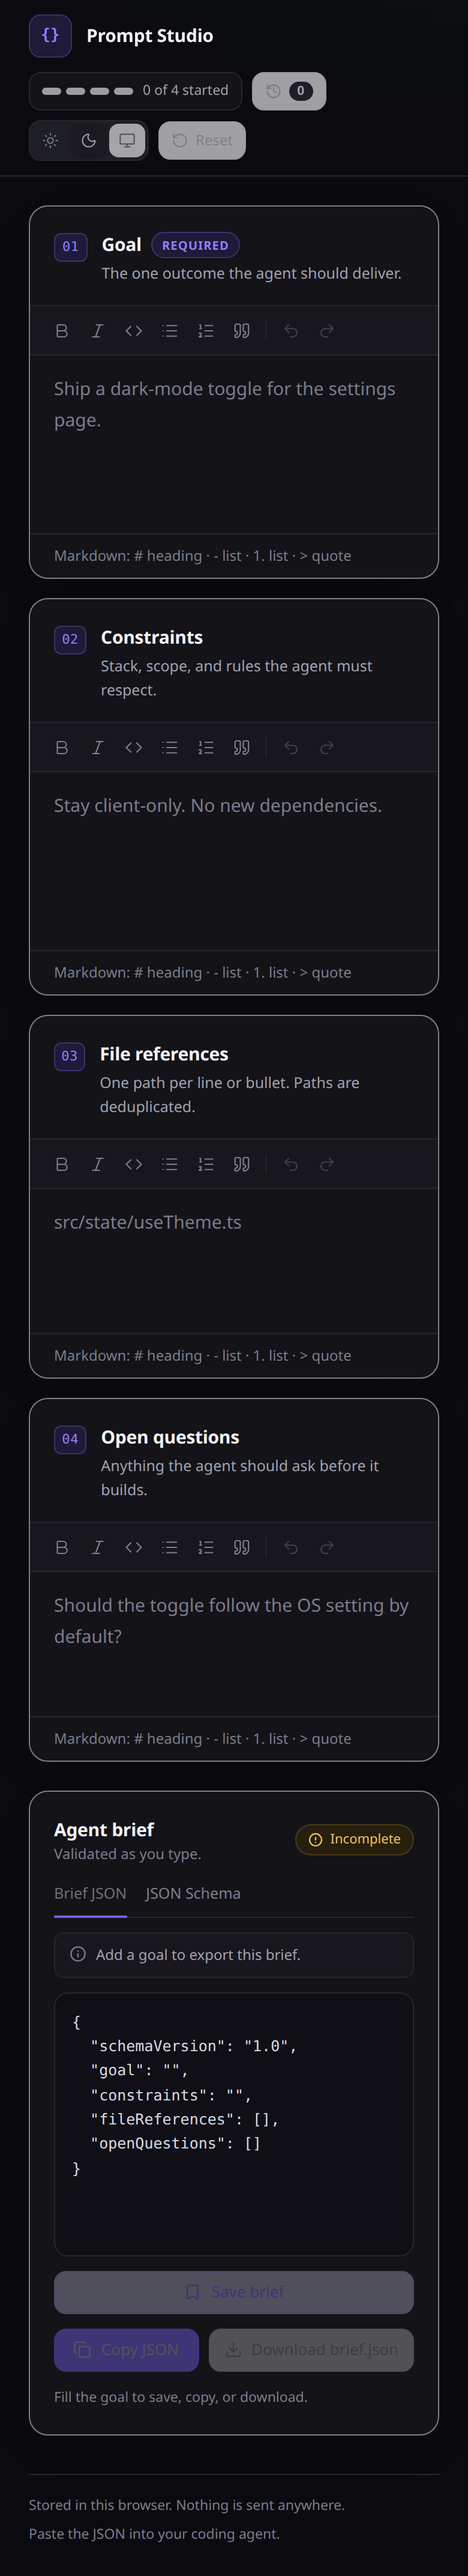
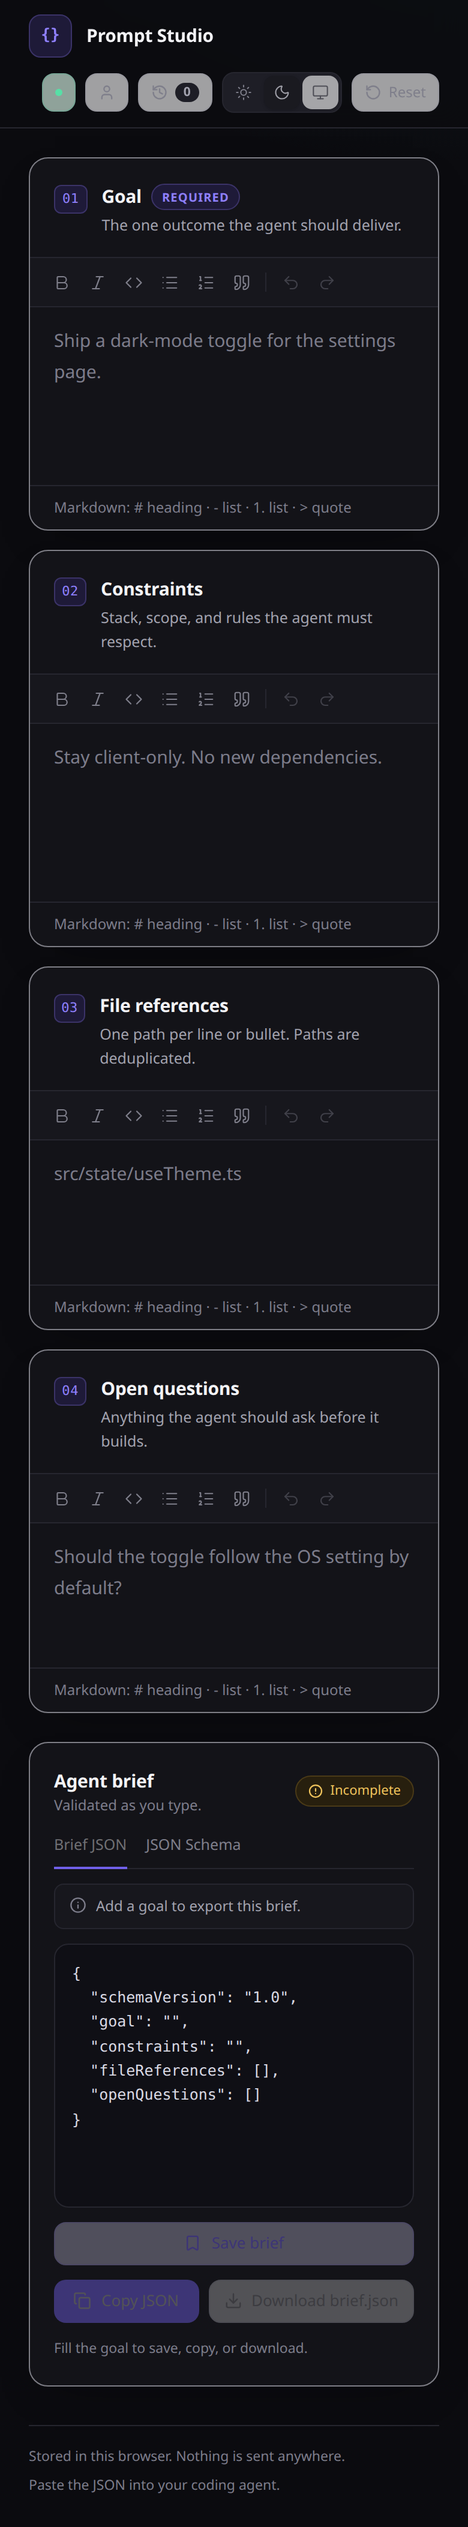
docs: document accounts, Mongo, and Render deployment

diff --git a/README.md b/README.md
@@ -2,37 +2,100 @@
 
 Four fields in. One agent-ready brief out.
 
-Write a goal, constraints, file references, and open questions. Prompt Studio turns them into a validated JSON brief you can paste into a coding agent.
+Write a goal, constraints, file references, and open questions. Prompt Studio turns them into a validated JSON brief you can paste into a coding agent. Saved briefs live in your account, backed by MongoDB Atlas, or stay in the browser when you are signed out.
 
 ![The editor in light mode](docs/screenshots/desktop-light.png)
 
 ![The editor in dark mode](docs/screenshots/desktop-dark-filled.png)
 
-![Saved briefs in the history drawer](docs/screenshots/desktop-light-history.png)
+![The create account dialog](docs/screenshots/desktop-auth.png)
 
 ## What it does
 
 - Four rich-text fields share one editor: bold, italic, inline code, bullet and numbered lists, quotes, headings, undo, and redo. Typing `- `, `1. `, `# `, or `> ` starts the matching block.
 - The right panel updates on every keystroke with the JSON brief. Copy it or download `brief.json`.
 - The JSON Schema tab shows the draft 2020-12 schema the payload is validated against. Zod generates both from one declaration.
+- Create an account to save briefs to MongoDB Atlas. History is scoped to the account and follows you to any device.
+- Signed-out use still works. Drafts and guest history stay in this browser.
+- A server status pill shows `Server online`, `Waking server`, `Database offline`, or `Server offline`. Signed-in saves make one immediate attempt plus four retries when Render's free instance is waking.
 - Light, dark, and system themes. The choice survives a reload.
-- Save the current brief to history. The drawer lists saved snapshots with a title, relative time, and field count. Load one back into the editor, delete it, or clear all. History keeps the newest 50 entries in this browser.
-- Drafts autosave to localStorage under `prompt-studio.draft.v1`. Nothing leaves the browser.
 
 ## Run it
 
 ```sh
 npm install
+cp .env.example .env
+# set MONGODB_URI in .env to your Atlas connection string
 npm run dev
 ```
 
-Open http://localhost:5173.
+`npm run dev` starts the Vite app on http://localhost:5173 and the API on http://localhost:8787. Vite proxies `/api` so cookies stay same-origin.
+
+To run the production build locally:
 
 ```sh
-npm test        # pure brief pipeline
+npm run build
+npm start
+```
+
+Open http://localhost:8787. Express serves the built SPA and the API from one origin.
+
+```sh
+npm test          # 52 unit tests
 npm run typecheck
+npm run lint
 npm run build
 ```
+
+## Accounts and storage
+
+| Where | What | Key |
+| --- | --- | --- |
+| MongoDB Atlas | Users, sessions, saved briefs | `prompt_studio` database |
+| Browser localStorage | Draft, guest history, theme | `prompt-studio.*` keys |
+
+Signed in, Save writes `POST /api/history` and the drawer reads the account. Signed out, Save and the drawer use localStorage. Signing in does not upload existing guest entries.
+
+Passwords use Node's scrypt with a random salt. Sessions are random tokens stored as SHA-256 hashes in Mongo, sent in an httpOnly `ps_session` cookie for 30 days. Logout deletes the session. Every history query filters by `userId`.
+
+### API
+
+| Method | Path | Auth | Result |
+| --- | --- | --- | --- |
+| GET | `/api/ping` | no | Liveness for Render |
+| GET | `/api/health` | no | Server uptime and Mongo state |
+| POST | `/api/auth/signup` | no | Create an account and session |
+| POST | `/api/auth/login` | no | Sign in |
+| POST | `/api/auth/logout` | no | Revoke the session |
+| GET | `/api/auth/me` | no | Current user or `null` |
+| GET | `/api/history` | yes | Newest 50 saved briefs |
+| POST | `/api/history` | yes | Save one, or report a duplicate |
+| DELETE | `/api/history/:id` | yes | Delete one owned brief |
+| DELETE | `/api/history` | yes | Clear the account's history |
+
+Validation, auth, and rate-limit failures return `{ "error", "code" }`.
+
+## Cold start
+
+Render's free web service sleeps after idle time. The first request can take 30 to 60 seconds while the instance boots. The app handles that in three places.
+
+1. The status pill probes `/api/health` on load and shows `Waking server` while the probe hangs or fails once.
+2. A signed-in save retries network errors and 502, 503, and 504 responses. It makes one immediate attempt, then retries at 0, 1.5, 4, and 8 seconds. Each attempt aborts after 65 seconds, and the toast says `Server is waking up. Retrying save.`
+3. The drawer's list request uses the same retry policy, so history appears once the instance is awake.
+
+The server starts its HTTP listener before Mongo connects. Routes that need the database return 503 until it is ready, and `/api/health` reports `connecting` or `error`. The server retries the Atlas connection every 5 seconds.
+
+## Deploy to Render
+
+`render.yaml` defines one free web service.
+
+1. Push the repo to GitHub.
+2. In Render, create a Blueprint from the repo.
+3. Set `MONGODB_URI` to the Atlas connection string with the real password, and `APP_ORIGIN` to the Render URL, for example `https://prompt-studio.onrender.com`.
+4. In Atlas, allow Render to connect. The simple option is a network access rule for `0.0.0.0/0`. The tighter option is the Render egress IPs for your region.
+5. Deploy. Render builds with `npm ci --include=dev && npm run build` and starts `node dist-server/server/index.js`.
+
+The build compiles the server to CommonJS in `dist-server`, writes a matching `package.json`, and bundles the SPA into `dist`. Express serves both.
 
 ## The payload
 
@@ -74,29 +137,31 @@ FieldEditor.onUpdate [1] ← one TipTap instance per field
 │   └── replace(docs) on history load [1a2] ← remounts editors
 ├── OutputPanel [1b]
 │   ├── Save brief [1b1] → useHistory.save [1b1a]
-│   │   ├── addEntry + newest duplicate check [1b1a1]
-│   │   ├── localStorage history write first [1b1a2]
-│   │   └── setEntries after a successful write [1b1a3]
+│   │   ├── signed out → localStorage [1b1a1]
+│   │   └── signed in → POST /api/history with wake retry [1b1a2]
 │   ├── Copy JSON [1b2] ← disabled until valid
-│   ├── Download brief.json [1b3]
-│   └── JSON Schema tab [1b4] ← z.toJSONSchema(BriefSchema)
-└── HistoryDrawer [1c]
-    ├── Load → replace(docs) + close [1c1]
-    └── Delete or clear → persist then setEntries [1c2]
+│   └── Download brief.json [1b3]
+├── HistoryDrawer [1c]
+│   ├── account source → GET /api/history [1c1]
+│   └── browser source → localStorage [1c2]
+└── useAuth [1d] ← GET /api/auth/me, signup, login, logout
 ```
 
-The same `Brief` type comes from `BriefSchema`, so the runtime validator and the displayed schema cannot drift. `src/brief/compile.ts` is the only place that assembles the payload. History stores the four ProseMirror documents, so loading a saved brief rebuilds the JSON from the same compiler instead of from a second stored format.
+`shared/brief-docs.ts` validates documents and derives titles for both the browser and the server. `shared/api.ts` holds the wire types.
 
 ## Project layout
 
 ```text
+server/             Express app, Mongo access, auth, history, tests
+shared/             document validation, title derivation, wire types
 src/
-├── brief/          contract, docs model, registry, markdown serializer, compiler, tests
-├── history/        pure entries, titles, relative time, tests
+├── brief/          contract, registry, markdown serializer, compiler, tests
+├── history/        pure entry model, relative time, tests
 ├── editor/         TipTap field, toolbar, action table
-├── state/          draft, history, and theme hooks
-├── ui/             form cards, output panel, history drawer, theme toggle, toast
-├── App.tsx         header, grid, reset, completion meter
+├── state/          auth, server status, history, draft, and theme hooks
+├── lib/api.ts      fetch wrapper, typed routes, wake retry
+├── ui/             form, output, history, auth, account, status, theme
+├── App.tsx         header, grid, dialogs, toasts
 └── styles.css      design tokens and editor typography
 ```
 
@@ -104,18 +169,18 @@ src/
 
 Colors and spacing live in `src/styles.css` as CSS variables mapped into Tailwind v4 through `@theme inline`. The `dark` class on `<html>` swaps the token set. An inline script in `index.html` applies the stored theme before first paint.
 
-The layout is a two-column workspace at 1024 px and wider, and a single column below that. Every control is a real button or a labelled editor, the toolbar exposes `aria-pressed`, the output tabs follow the WAI-ARIA tabs pattern, and validation messages sit in live regions.
+The layout is a two-column workspace at 1024 px and wider, and a single column below that. Every control is a real button or a labelled editor, the toolbar exposes `aria-pressed`, the output tabs follow the WAI-ARIA tabs pattern, and the auth dialog and history drawer share one focus-trap hook.
 
-`src/brief/` and `src/history/` are pure. They import neither React nor the DOM, so both can move into a workspace package without edits. `src/state/` holds the React adapters, and the draft and history keys have separate writers.
+`src/brief/`, `src/history/`, and `shared/` import neither React nor the DOM, so they can move into a workspace package without edits.
 
 ## Stitch MCP
 
-The app was built without Stitch because no Stitch MCP server or API key was configured in this environment. `docs/stitch.md` has the setup commands, the OpenCode config, and the prompt to regenerate this screen in Stitch. The four-field layout, tokens, and components are isolated, so a Stitch design can replace the visual layer without touching the brief pipeline.
+The original visual layer was built without Stitch because no Stitch MCP server or API key was configured in this environment. `docs/stitch.md` has the setup commands, the OpenCode config, and the prompt to regenerate the screen. The account dialog adds one more surface to that prompt.
 
 ## Verification
 
-`npm test` covers the serializer, item flattening, path normalization, schema shape, parse failures, issue mapping, and the history model. `scripts/verify-ui.cjs` drives the real app in Chrome through 38 checks: typing, formatting, deduplication, save, duplicate save, load, delete, copy, download, schema tab, reload persistence, reset, and dark and light layouts. Start the dev server first, then run:
-
-```sh
-npm run verify:ui
-```
+- `npm test` runs 52 unit tests across the serializer, schema, history model, password hashing, rate limiting, origin checks, and document validation.
+- `npm run verify:api` runs 30 checks against a real local mongod: signup, sessions, save, duplicate detection, two-user isolation, IDOR, delete, clear, logout, bad credentials, and origin rejection.
+- `npm run verify:ui` runs 38 guest checks in Chrome.
+- `npm run verify:auth` runs 25 account checks: signup, account save, sign-out, second-account isolation, history restore across reload, degraded and recovered status, retry after two simulated 503s, and screenshots.
+- Run the server first for the browser scripts.

diff --git a/docs/stitch.md b/docs/stitch.md
@@ -57,7 +57,7 @@ Paste this prompt after the server connects:
 ```text
 Design a desktop web app called Prompt Studio for composing a structured brief for a coding agent. Dark and light themes.
 
-Layout: a sticky top bar with a small braces logo, the name Prompt Studio, the line "Four fields in. One agent-ready brief out.", a four-segment completion meter, a History button with a saved count, a light/dark/system theme control, and a Reset button. Below it, two columns. The left column is a stack of four cards, numbered 01 to 04: Goal, Constraints, File references, Open questions. Each card has an icon, a one-line hint, a rich-text toolbar with bold, italic, inline code, bullet list, numbered list, quote, undo, and redo, a roomy editor, and a footer with a Markdown shortcut hint. The right column is a sticky output panel titled "Agent brief" with a Valid or Incomplete badge, two tabs named "Brief JSON" and "JSON Schema", a monospace code block, a full-width "Save brief" button, and a row with "Copy JSON" and "Download brief.json". Add a right-side history drawer that lists saved briefs, each with a title, saved time, field count, Load, and Delete, plus a Clear all action and an empty state.
+Layout: a sticky top bar with a small braces logo, the name Prompt Studio, the line "Four fields in. One agent-ready brief out.", a four-segment completion meter, a green server status pill, an account button, a History button with a saved count, a light/dark/system theme control, and a Reset button. Below it, two columns. The left column is a stack of four cards, numbered 01 to 04: Goal, Constraints, File references, Open questions. Each card has an icon, a one-line hint, a rich-text toolbar with bold, italic, inline code, bullet list, numbered list, quote, undo, and redo, a roomy editor, and a footer with a Markdown shortcut hint. The right column is a sticky output panel titled "Agent brief" with a Valid or Incomplete badge, two tabs named "Brief JSON" and "JSON Schema", a monospace code block, a full-width "Save brief" button, and a row with "Copy JSON" and "Download brief.json". Add a right-side history drawer that lists saved briefs, each with a title, saved time, field count, Load, and Delete, plus a Clear all action and an empty state. Add a centered sign-in dialog with Sign in and Create account tabs, email and password fields, and a primary submit button.
 
 Style: neutral slate and near-black surfaces, a violet accent, 16 px card radii, soft shadows, crisp 12 to 15 px type, and a sparse layout that feels like a developer tool rather than a form. Keep both themes legible and quiet.
 ```
